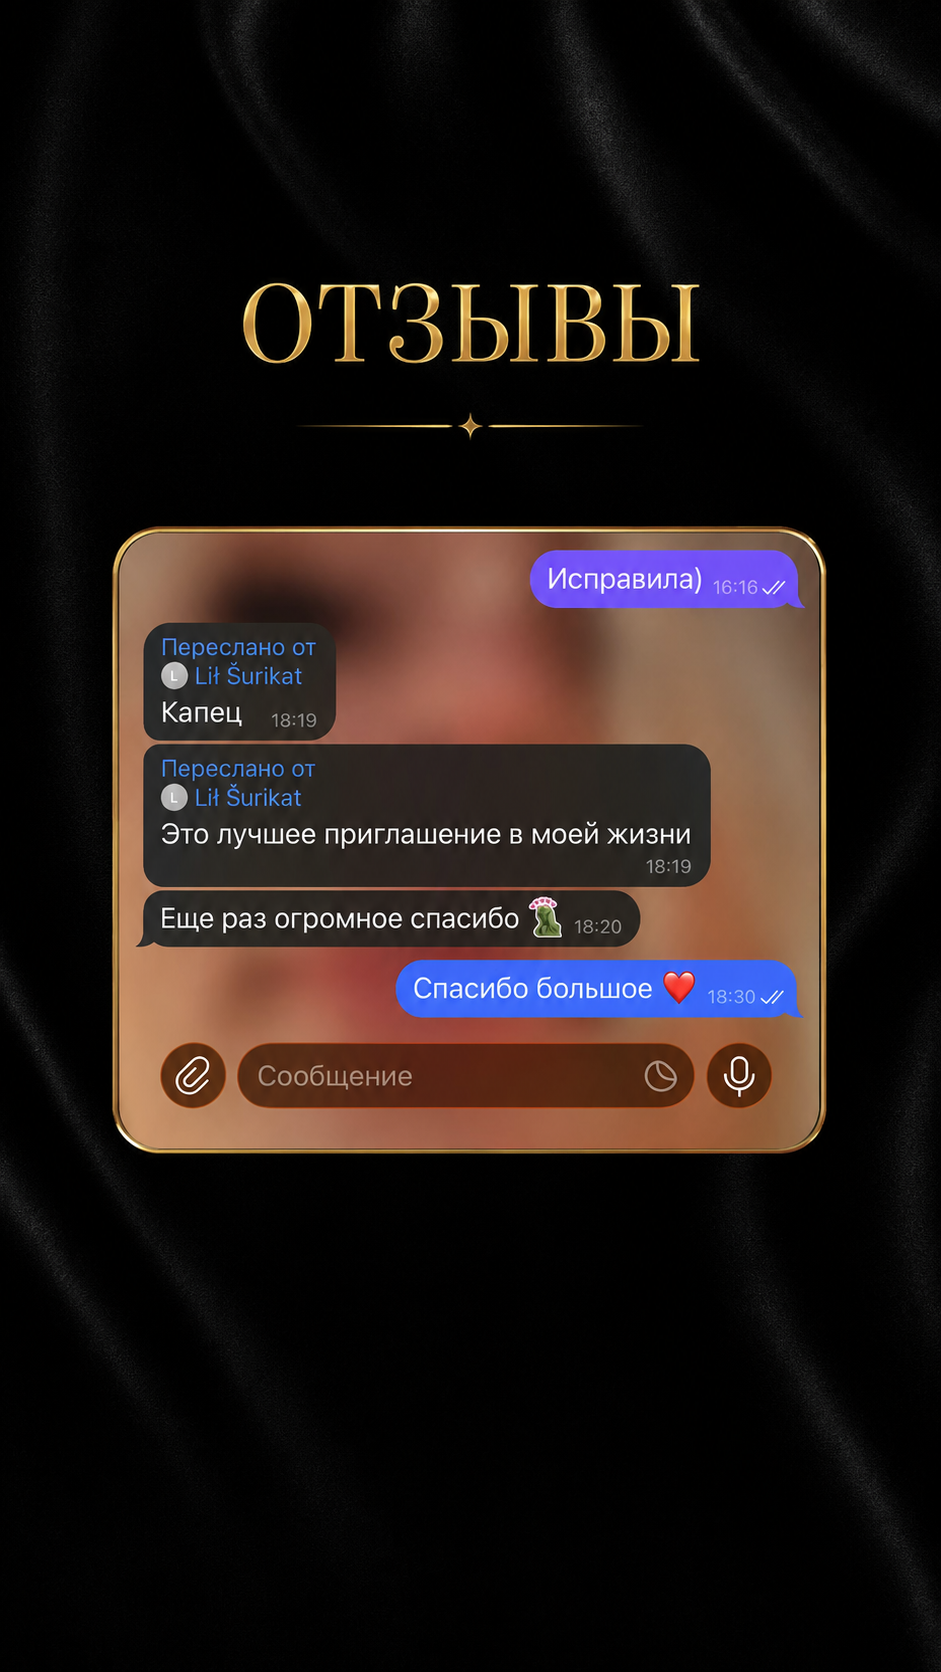
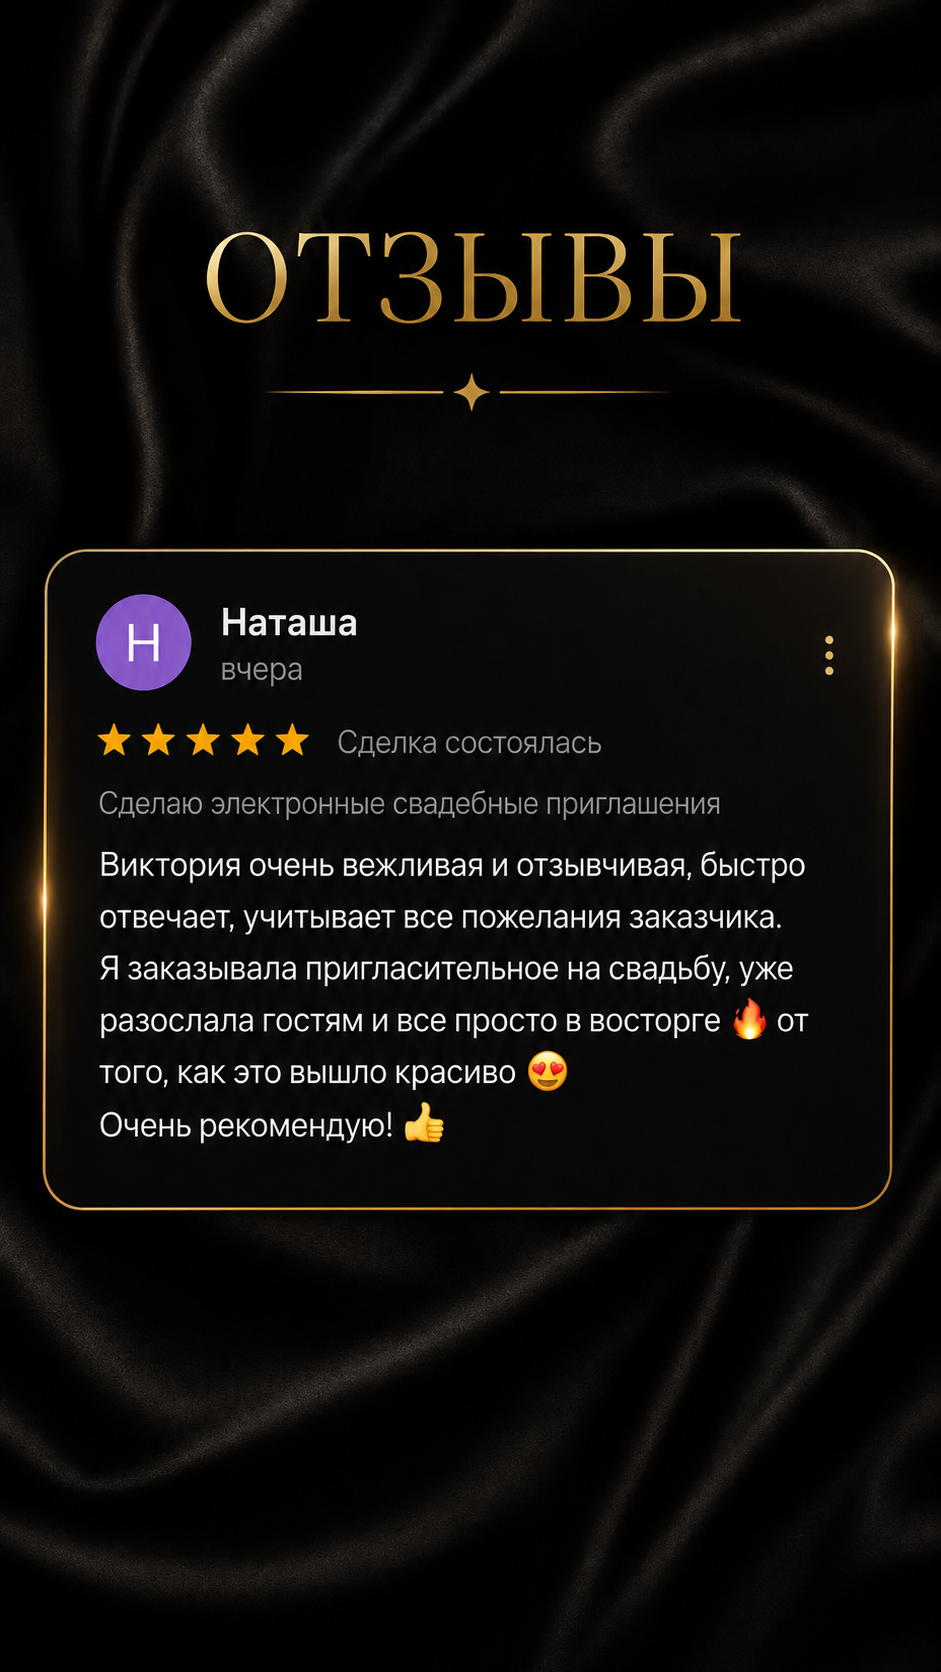
фикс

diff --git a/css/style.css b/css/style.css
@@ -286,7 +286,7 @@ body{
 
     width:100%;
 
-    max-width:420px;
+    max-width:210px;
 
     display:block;
 
@@ -366,7 +366,7 @@ body{
 
 }
 
-.primary{
+.btn-primary{
 
     background:#7B3847;
 
@@ -374,7 +374,7 @@ body{
 
 }
 
-.primary:hover{
+.btn-primary:hover{
 
     transform:translateY(-5px);
 
@@ -384,7 +384,7 @@ body{
 
 }
 
-.secondary{
+.btn-secondary{
 
     background:white;
 
@@ -394,7 +394,7 @@ body{
 
 }
 
-.secondary:hover{
+.btn-secondary:hover{
 
     transform:translateY(-5px);
 
@@ -1109,21 +1109,45 @@ body.modal-open{
    REVIEWS
 =========================================== */
 
-.reviews-gallery{
+.reviews-wrap{
+
+    position:relative;
 
     margin-top:70px;
 
-    display:grid;
+}
 
-    grid-template-columns:repeat(auto-fit,minmax(260px,1fr));
+.reviews-gallery{
+
+    display:flex;
 
     gap:30px;
+
+    overflow-x:auto;
+
+    scroll-snap-type:x mandatory;
+
+    -webkit-overflow-scrolling:touch;
+
+    scrollbar-width:none;
+
+    padding-bottom:4px;
+
+}
+
+.reviews-gallery::-webkit-scrollbar{
+
+    display:none;
 
 }
 
 .reviews-gallery img{
 
-    width:100%;
+    flex:0 0 calc((100% - 30px * 3) / 4);
+
+    width:calc((100% - 30px * 3) / 4);
+
+    scroll-snap-align:start;
 
     border-radius:24px;
 
@@ -1140,6 +1164,68 @@ body.modal-open{
     transform:translateY(-8px) scale(1.02);
 
     box-shadow:0 30px 60px rgba(0,0,0,.16);
+
+}
+
+/* Стрелки — только для устройств с мышью, на тач-устройствах листают свайпом */
+
+.reviews-nav{
+
+    display:none;
+
+    position:absolute;
+
+    top:50%;
+
+    transform:translateY(-50%);
+
+    width:52px;
+
+    height:52px;
+
+    border:none;
+
+    border-radius:50%;
+
+    background:#fff;
+
+    color:#7B3847;
+
+    font-size:18px;
+
+    cursor:pointer;
+
+    z-index:3;
+
+    box-shadow:0 12px 30px rgba(0,0,0,.14);
+
+    transition:.25s;
+
+}
+
+.reviews-nav:hover{
+
+    background:#7B3847;
+
+    color:#fff;
+
+}
+
+.reviews-prev{ left:-26px; }
+
+.reviews-next{ right:-26px; }
+
+@media (hover:hover) and (pointer:fine){
+
+    .reviews-nav{
+
+        display:flex;
+
+        align-items:center;
+
+        justify-content:center;
+
+    }
 
 }
 
@@ -1738,7 +1824,7 @@ section{
     }
 
     .hero-phone {
-        max-width: 360px;
+        max-width: 180px;
         margin: 0 auto;
     }
 
@@ -1747,6 +1833,14 @@ section{
 
     .gallery {
         columns: 2 280px;
+    }
+
+
+    /* ОТЗЫВЫ */
+
+    .reviews-gallery img {
+        flex: 0 0 calc((100% - 30px) / 2);
+        width: calc((100% - 30px) / 2);
     }
 
 
@@ -1803,7 +1897,7 @@ section{
     }
 
     .hero-phone {
-        max-width: 300px;
+        max-width: 150px;
     }
 
 
@@ -1881,8 +1975,12 @@ section{
     /* ОТЗЫВЫ */
 
     .reviews-gallery {
-        grid-template-columns: 1fr;
-        gap: 20px;
+        gap: 16px;
+    }
+
+    .reviews-gallery img {
+        flex: 0 0 86%;
+        width: 86%;
     }
 
 
@@ -1991,7 +2089,7 @@ section{
     }
 
     .hero-phone {
-        max-width: 260px;
+        max-width: 130px;
     }
 
 

diff --git a/js/app.js b/js/app.js
@@ -298,6 +298,37 @@ modalButton.addEventListener("click", (event) => {
 });
 
 // =====================================
+// Карусель отзывов (стрелки для мыши)
+// =====================================
+
+const reviewsGallery = document.getElementById("reviewsGallery");
+const reviewsPrev = document.querySelector(".reviews-prev");
+const reviewsNext = document.querySelector(".reviews-next");
+
+function scrollReviews(direction) {
+
+    if (!reviewsGallery) return;
+
+    const firstImg = reviewsGallery.querySelector("img");
+
+    if (!firstImg) return;
+
+    const gap = parseFloat(getComputedStyle(reviewsGallery).columnGap) || 30;
+
+    const step = firstImg.getBoundingClientRect().width + gap;
+
+    reviewsGallery.scrollBy({ left: direction * step, behavior: "smooth" });
+
+}
+
+if (reviewsPrev && reviewsNext) {
+
+    reviewsPrev.addEventListener("click", () => scrollReviews(-1));
+    reviewsNext.addEventListener("click", () => scrollReviews(1));
+
+}
+
+// =====================================
 // Увеличение отзывов
 // =====================================
 

diff --git a/index.html b/index.html
@@ -257,15 +257,22 @@
 
         </h2>
 
-        <div class="reviews-gallery">
+        <div class="reviews-wrap">
 
-            <img src="images/reviews/review1.jpg" alt="Отзыв">
+            <button class="reviews-nav reviews-prev" aria-label="Предыдущие отзывы">&#10094;</button>
+            <button class="reviews-nav reviews-next" aria-label="Следующие отзывы">&#10095;</button>
 
-            <img src="images/reviews/review2.jpg" alt="Отзыв">
+            <div class="reviews-gallery" id="reviewsGallery">
 
-            <img src="images/reviews/review3.jpg" alt="Отзыв">
+                <img src="images/reviews/review1.jpg" alt="Отзыв">
 
-            <img src="images/reviews/review4.jpg" alt="Отзыв">
+                <img src="images/reviews/review2.jpg" alt="Отзыв">
+
+                <img src="images/reviews/review3.jpg" alt="Отзыв">
+
+                <img src="images/reviews/review4.jpg" alt="Отзыв">
+
+            </div>
 
         </div>
 
